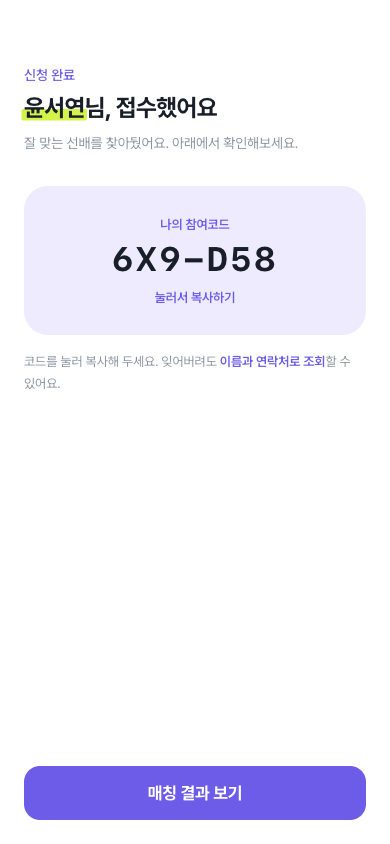
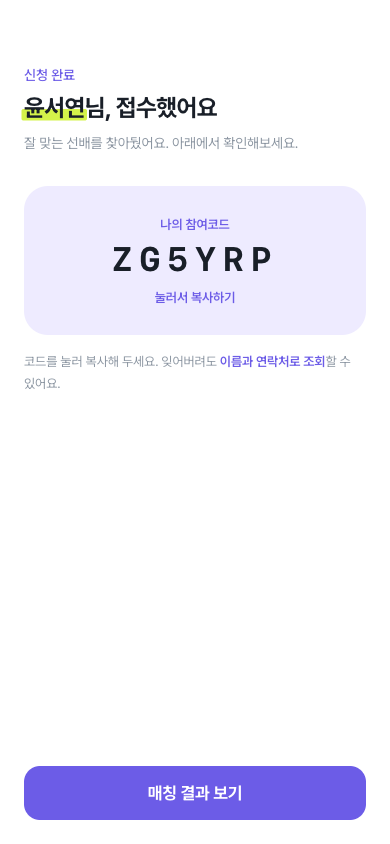
사진 스텝을 고르기/찍기로 분리하고 참여코드에서 하이픈 제거
사진
- 앨범에서 고르기 / 카메라로 찍기 두 갈래로 나눔.
  capture 속성을 켰다 껐다 하면 기기에 따라 반영이 늦어 input을 따로 둔다.
- 사진이 없을 때 성향 이모지로 대체하던 것을 이름 글자로 바꿈.
  이모지는 성향을 나타내는 기호라 사람 자리에 놓으면
  "사진을 안 올린 사람"이 아니라 "그 성향인 사람"처럼 읽힌다.
- 멘토 카드 아바타도 같은 규칙 적용

참여코드
- 표시에서 하이픈 제거 (4BT-NXF -> 4BTNXF).
  자간을 넓혀 한 글자씩 또렷하게 읽히도록 함
- 입력받을 때는 하이픈이 섞여 들어와도 정규화해 통과시키는 동작 유지
- 화면에 보이는 값과 복사되는 값이 같아짐

Changed region(s): [[0.2769, 0.2773, 0.7077, 0.3389]]

diff --git a/src/features/onboarding/components/steps/PhotoStep.tsx b/src/features/onboarding/components/steps/PhotoStep.tsx
@@ -2,8 +2,8 @@
 
 import { animate } from "animejs";
 import { useEffect, useRef, useState } from "react";
-import { PERSONAS } from "@/shared/constants/persona";
 import { DURATION, REVEAL_EASE, TAP_SPRING } from "@/shared/lib/anime";
+import { nameInitials } from "@/shared/lib/nameInitials";
 import { StepLayout } from "../StepLayout";
 import type { StepProps } from "../../model/types";
 
@@ -51,10 +51,13 @@ export function PhotoStep({ role, draft, onNext, onChange }: StepProps) {
   const [photoUrl, setPhotoUrl] = useState<string | undefined>(draft.photoUrl);
   const [error, setError] = useState<string>();
 
-  const inputRef = useRef<HTMLInputElement>(null);
+  // 앨범과 카메라는 input 을 따로 둔다.
+  // 하나에 capture 속성을 켰다 껐다 하면 기기에 따라 반영이 늦다.
+  const pickRef = useRef<HTMLInputElement>(null);
+  const captureRef = useRef<HTMLInputElement>(null);
   const previewRef = useRef<HTMLDivElement>(null);
 
-  const persona = draft.personaType ? PERSONAS[draft.personaType] : undefined;
+  const initials = nameInitials(draft.name);
 
 
   // 고르는 즉시 draft에 반영한다. 뒤로 갔다 돌아와도 선택이 남아 있어야 한다.
@@ -99,20 +102,22 @@ export function PhotoStep({ role, draft, onNext, onChange }: StepProps) {
               className="size-[140px] rounded-full object-cover"
             />
           ) : (
-            <div className="flex size-[140px] items-center justify-center rounded-full bg-gray-50 text-[52px]">
-              <span aria-hidden>{persona?.emoji ?? "🙂"}</span>
+            // 사진이 없으면 이름 글자를 보여준다. 이모지로 대체하지 않는다.
+            <div className="flex size-[140px] items-center justify-center rounded-full bg-gray-100">
+              <span className="text-[44px] font-bold text-gray-400">{initials}</span>
             </div>
           )}
         </div>
 
-        {!photoUrl && persona && (
+        {!photoUrl && (
           <p className="mt-3 text-center text-[13px] text-gray-400">
-            사진이 없으면 {persona.name} 이모지로 보여요.
+            올리지 않으면 이름만 보여요.
           </p>
         )}
 
+        {/* 앨범에서 고르기 */}
         <input
-          ref={inputRef}
+          ref={pickRef}
           type="file"
           accept={ACCEPTED}
           className="hidden"
@@ -122,28 +127,40 @@ export function PhotoStep({ role, draft, onNext, onChange }: StepProps) {
             e.target.value = "";
           }}
         />
+        {/* 바로 찍기. capture="user" 가 모바일에서 카메라를 연다. */}
+        <input
+          ref={captureRef}
+          type="file"
+          accept={ACCEPTED}
+          capture="user"
+          className="hidden"
+          onChange={(e) => {
+            void handleFile(e.target.files?.[0]);
+            e.target.value = "";
+          }}
+        />
 
-        <div className="mt-6 flex w-full flex-col gap-2">
-          <button
-            type="button"
-            onClick={(e) => {
-              inputRef.current?.click();
-              animate(e.currentTarget, {
-                scale: [0.98, 1],
-                duration: DURATION.fade,
-                ease: REVEAL_EASE,
-              });
-            }}
-            className="h-[52px] w-full rounded-2xl bg-brand-soft text-[16px] font-bold text-brand"
-          >
-            {photoUrl ? "다른 사진 고르기" : "사진 고르기"}
-          </button>
+        <div className="mt-6 w-full">
+          <div className="grid grid-cols-2 gap-2">
+            <PhotoActionButton
+              onClick={() => pickRef.current?.click()}
+              emoji="🖼"
+              label={photoUrl ? "다시 고르기" : "고르기"}
+              description="앨범에서"
+            />
+            <PhotoActionButton
+              onClick={() => captureRef.current?.click()}
+              emoji="📷"
+              label={photoUrl ? "다시 찍기" : "찍기"}
+              description="카메라로"
+            />
+          </div>
 
           {photoUrl && (
             <button
               type="button"
               onClick={() => setPhotoUrl(undefined)}
-              className="h-[52px] w-full rounded-2xl bg-gray-50 text-[16px] font-semibold text-gray-600"
+              className="mt-2 h-[48px] w-full rounded-2xl bg-gray-50 text-[15px] font-semibold text-gray-600"
             >
               사진 지우기
             </button>
@@ -153,5 +170,39 @@ export function PhotoStep({ role, draft, onNext, onChange }: StepProps) {
         {error && <p className="mt-3 text-[13px] text-red-500">{error}</p>}
       </div>
     </StepLayout>
+  );
+}
+
+/** 고르기 / 찍기 두 갈래를 같은 크기로 나란히 보여준다. */
+function PhotoActionButton({
+  onClick,
+  emoji,
+  label,
+  description,
+}: {
+  onClick: () => void;
+  emoji: string;
+  label: string;
+  description: string;
+}) {
+  return (
+    <button
+      type="button"
+      onClick={(e) => {
+        onClick();
+        animate(e.currentTarget, {
+          scale: [0.97, 1],
+          duration: DURATION.fade,
+          ease: REVEAL_EASE,
+        });
+      }}
+      className="flex flex-col items-center gap-1 rounded-2xl bg-brand-soft py-4"
+    >
+      <span className="text-[24px]" aria-hidden>
+        {emoji}
+      </span>
+      <span className="text-[16px] font-bold text-brand">{label}</span>
+      <span className="text-[12px] text-gray-500">{description}</span>
+    </button>
   );
 }

diff --git a/src/app/admin/page.tsx b/src/app/admin/page.tsx
@@ -5,7 +5,6 @@ import { DataTable, type TableColumn } from "@/features/admin/components/DataTab
 import { downloadCsv, type CsvColumn } from "@/features/admin/lib/csv";
 import { matchMentors } from "@/features/matching/lib/score";
 import type { Mentee, Mentor } from "@/features/matching/model/types";
-import { formatParticipationCode } from "@/features/onboarding/lib/participationCode";
 import { formatTimeSlotShort } from "@/shared/constants/domain";
 import { PERSONAS } from "@/shared/constants/persona";
 import { MOCK_MENTEES, MOCK_MENTORS } from "@/shared/lib/mock/generate";
@@ -32,7 +31,7 @@ interface MatchRow {
 }
 
 const menteeColumns: TableColumn<Mentee>[] = [
-  { key: "code", header: "참여코드", value: (r) => formatParticipationCode(r.participationCode), width: "110px" },
+  { key: "code", header: "참여코드", value: (r) => r.participationCode, width: "110px" },
   { key: "name", header: "이름", value: (r) => r.name, width: "80px" },
   { key: "gender", header: "성별", value: (r) => (r.gender === "MALE" ? "남" : "여"), align: "center", width: "60px" },
   { key: "campus1", header: "1지망", value: (r) => r.targetCampus[0] },
@@ -49,7 +48,7 @@ const menteeColumns: TableColumn<Mentee>[] = [
 ];
 
 const mentorColumns: TableColumn<Mentor>[] = [
-  { key: "code", header: "참여코드", value: (r) => formatParticipationCode(r.participationCode), width: "110px" },
+  { key: "code", header: "참여코드", value: (r) => r.participationCode, width: "110px" },
   { key: "name", header: "이름", value: (r) => r.name, width: "80px" },
   { key: "gender", header: "성별", value: (r) => (r.gender === "MALE" ? "남" : "여"), align: "center", width: "60px" },
   { key: "campus", header: "캠퍼스", value: (r) => r.currentCampus },
@@ -114,7 +113,7 @@ export default function AdminPage() {
         matchMentors(mentee, MOCK_MENTORS, 3).map((result, i) => ({
           id: `${mentee.id}-${result.mentor.id}`,
           rank: i + 1,
-          menteeCode: formatParticipationCode(mentee.participationCode),
+          menteeCode: mentee.participationCode,
           menteeName: mentee.name,
           menteeCampus: mentee.targetCampus[0],
           menteeArea: mentee.desiredAreas.join(", "),
@@ -202,7 +201,7 @@ export default function AdminPage() {
           rows={MOCK_MENTEES}
           columns={menteeColumns}
           rowKey={(r) => r.id}
-          searchable={(r) => `${formatParticipationCode(r.participationCode)} ${r.name} ${r.targetCampus.join(" ")} ${r.targetMajors.join(" ")} ${r.desiredAreas.join(" ")}`}
+          searchable={(r) => `${r.participationCode} ${r.name} ${r.targetCampus.join(" ")} ${r.targetMajors.join(" ")} ${r.desiredAreas.join(" ")}`}
         />
       )}
 
@@ -211,7 +210,7 @@ export default function AdminPage() {
           rows={MOCK_MENTORS}
           columns={mentorColumns}
           rowKey={(r) => r.id}
-          searchable={(r) => `${formatParticipationCode(r.participationCode)} ${r.name} ${r.currentCampus} ${r.currentMajors.join(" ")} ${r.mentoringArea.join(" ")}`}
+          searchable={(r) => `${r.participationCode} ${r.name} ${r.currentCampus} ${r.currentMajors.join(" ")} ${r.mentoringArea.join(" ")}`}
         />
       )}
 

diff --git a/src/components/ui/CodeBadge.tsx b/src/components/ui/CodeBadge.tsx
@@ -1,7 +1,6 @@
 "use client";
 
 import { useCallback, useEffect, useRef, useState } from "react";
-import { formatParticipationCode } from "@/features/onboarding/lib/participationCode";
 import { cn } from "@/shared/lib/cn";
 import { pressFeedback, Toast } from "./Toast";
 
@@ -38,9 +37,8 @@ export function CodeBadge({ code, size = "large" }: CodeBadgeProps) {
 
   const handleCopy = async (e: React.MouseEvent<HTMLButtonElement>) => {
     pressFeedback(e.currentTarget);
-    const formatted = formatParticipationCode(code);
     try {
-      await navigator.clipboard.writeText(formatted);
+      await navigator.clipboard.writeText(code);
       showToast("참여코드를 복사했어요");
     } catch {
       // 클립보드가 막힌 환경(비 HTTPS 등)에서는 화면의 코드를 보고 적으면 된다.
@@ -55,7 +53,7 @@ export function CodeBadge({ code, size = "large" }: CodeBadgeProps) {
       <button
         type="button"
         onClick={handleCopy}
-        aria-label={`참여코드 ${formatParticipationCode(code)} 복사하기`}
+        aria-label={`참여코드 ${code.split("").join(" ")} 복사하기`}
         className={cn(
           "w-full rounded-3xl bg-brand-soft transition-colors duration-150 active:bg-brand/15",
           isLarge ? "px-6 py-7" : "px-4 py-3",
@@ -64,8 +62,8 @@ export function CodeBadge({ code, size = "large" }: CodeBadgeProps) {
         {isLarge ? (
           <>
             <span className="block text-[13px] font-semibold text-brand">나의 참여코드</span>
-            <span className="mt-2 block font-mono text-[34px] leading-none font-bold tracking-[0.08em] text-gray-900">
-              {formatParticipationCode(code)}
+            <span className="mt-2 block font-mono text-[34px] leading-none font-bold tracking-[0.2em] text-gray-900">
+              {code}
             </span>
             <span className="mt-3 block text-[13px] font-semibold text-brand">
               눌러서 복사하기
@@ -75,8 +73,8 @@ export function CodeBadge({ code, size = "large" }: CodeBadgeProps) {
           <span className="flex items-center justify-between">
             <span className="text-[13px] font-semibold text-brand">참여코드</span>
             <span className="flex items-center gap-2">
-              <span className="font-mono text-[16px] font-bold tracking-[0.06em] text-gray-900">
-                {formatParticipationCode(code)}
+              <span className="font-mono text-[16px] font-bold tracking-[0.14em] text-gray-900">
+                {code}
               </span>
               <span className="text-[12px] font-semibold text-brand">복사</span>
             </span>

diff --git a/src/features/onboarding/lib/participationCode.ts b/src/features/onboarding/lib/participationCode.ts
@@ -12,9 +12,6 @@
 const ALPHABET = "23456789ABCDEFGHJKMNPQRSTUVWXYZ";
 const CODE_LENGTH = 6;
 
-/** 표시용 구분자 위치. 6자를 3-3으로 끊으면 한 번에 읽힌다. */
-const GROUP_SIZE = 3;
-
 /**
  * 암호학적 난수로 코드를 만든다.
  * Math.random을 쓰면 같은 밀리초에 제출한 두 사람이 같은 코드를 받을 수 있다.
@@ -32,13 +29,11 @@ export function generateParticipationCode(): string {
   return code;
 }
 
-/** "K7M2X9" -> "K7M-2X9" */
-export function formatParticipationCode(code: string): string {
-  if (code.length !== CODE_LENGTH) return code;
-  return `${code.slice(0, GROUP_SIZE)}-${code.slice(GROUP_SIZE)}`;
-}
-
-/** 사용자가 입력한 코드를 비교 가능한 형태로 정규화한다. */
+/**
+ * 사용자가 입력한 코드를 비교 가능한 형태로 정규화한다.
+ * 표시할 때는 구분 기호 없이 6자를 그대로 쓰지만,
+ * 붙여넣기로 하이픈이 섞여 들어와도 통과시켜야 한다.
+ */
 export function normalizeParticipationCode(input: string): string {
   return input.replace(/[^0-9A-Za-z]/g, "").toUpperCase();
 }

diff --git a/src/shared/lib/nameInitials.ts b/src/shared/lib/nameInitials.ts
@@ -1,0 +1,25 @@
+/**
+ * 사진이 없을 때 아바타 자리에 넣을 글자.
+ *
+ * 페르소나 이모지를 쓰지 않는 이유: 이모지는 성향을 나타내는 기호라
+ * 사람을 가리키는 자리에 놓으면 "사진을 안 올린 사람"이 아니라
+ * "그 성향인 사람"처럼 읽힌다. 이름 글자가 훨씬 정확하다.
+ *
+ * 한국 이름은 성 한 글자 + 이름 두 글자가 대부분이라 뒤 두 글자를 쓴다.
+ * "윤서연" -> "서연" (성만 남기면 동명이인이 다 같아 보인다)
+ */
+export function nameInitials(name: string | undefined): string {
+  const trimmed = name?.trim() ?? "";
+  if (!trimmed) return "?";
+
+  // 영문 이름은 각 단어의 첫 글자를 딴다. "Emma Carter" -> "EC"
+  if (/^[A-Za-z\s]+$/.test(trimmed)) {
+    return trimmed
+      .split(/\s+/)
+      .slice(0, 2)
+      .map((word) => word[0]?.toUpperCase() ?? "")
+      .join("");
+  }
+
+  return trimmed.length <= 2 ? trimmed : trimmed.slice(-2);
+}

diff --git a/src/features/matching/components/MentorCard.tsx b/src/features/matching/components/MentorCard.tsx
@@ -4,6 +4,7 @@ import { Name } from "@/components/ui/Name";
 import { formatTimeSlotShort } from "@/shared/constants/domain";
 import { PERSONAS } from "@/shared/constants/persona";
 import { cn } from "@/shared/lib/cn";
+import { nameInitials } from "@/shared/lib/nameInitials";
 import type { MatchResult } from "../model/types";
 
 interface MentorCardProps {
@@ -49,7 +50,11 @@ export function MentorCard({ result, onMatch }: MentorCardProps) {
                 className="size-full object-cover"
               />
             ) : (
-              <span aria-hidden>{persona.emoji}</span>
+              // 사진이 없으면 이름 글자로 채운다.
+              // 페르소나 이모지를 쓰면 "사진 없는 사람"이 아니라 "그 성향인 사람"처럼 읽힌다.
+              <span className="text-[26px] font-bold text-gray-400">
+                {nameInitials(mentor.name)}
+              </span>
             )}
           </div>
         </div>

diff --git a/README.md b/README.md
@@ -72,7 +72,7 @@ npm run dev        # http://localhost:3000
 | 5 | ![](screenshots/01-멘티-고3학생/05-희망학과와진로.png) | **희망 학과·진로** — 각각 최대 3개. `0/3` 카운터로 남은 개수를 표시합니다 |
 | 6 | ![](screenshots/01-멘티-고3학생/06-프로필-이름연락처.png) | **프로필** — 이름·성별·연락처는 필수, 고등학교·추천인은 선택 |
 | 7 | ![](screenshots/01-멘티-고3학생/07-가능시간대-밤은온라인.png) | **가능 시간대** — 평일/주말 × 5구간. **밤(21-24시)은 온라인** 뱃지로 표시 |
-| 8 | ![](screenshots/01-멘티-고3학생/08-프로필사진-건너뛰기가능.png) | **프로필 사진** — 선택. 없으면 성향 이모지로 대체됩니다 |
+| 8 | ![](screenshots/01-멘티-고3학생/08-프로필사진-고르기또는찍기.png) | **프로필 사진** — 앨범에서 **고르기** 또는 카메라로 **찍기**. 선택 사항이며, 올리지 않으면 이름 글자만 보입니다 |
 | 9 | ![](screenshots/01-멘티-고3학생/09-신청완료-참여코드발급.png) | **신청 완료** — 참여코드 발급. 코드를 누르면 복사됩니다 |
 | 10 | ![](screenshots/01-멘티-고3학생/10-매칭결과-멘토카드3장.png) | **매칭 결과** — 적합도 순 상위 3명의 프로필 카드 |
 
@@ -112,10 +112,11 @@ npm run dev        # http://localhost:3000
 
 ### 참여코드 규칙
 
-- **6자리**, `4BT-NXF`처럼 3-3으로 끊어 표시
+- **6자리**, `ZG5YRP`처럼 구분 기호 없이 표시 (자간을 넓혀 한 글자씩 또렷하게)
 - **혼동되는 글자를 뺐습니다** — `0/O`, `1/I/L` 제외. 전화로 불러주거나 손으로 적는 상황을 전제
 - `crypto.getRandomValues` 사용 — 같은 순간에 제출한 두 사람이 같은 코드를 받지 않도록
 - 코드를 누르면 클립보드에 복사되고 "메모장이나 메시지에 붙여넣어 두세요" 안내가 뜹니다
+- 입력받을 때는 하이픈이 섞여 들어와도 정규화해 통과시킵니다
 
 ### 조회는 왜 이름 + 번호인가
 
@@ -235,6 +236,8 @@ src/
 - **스텝마다 `key`를 부여** — 없으면 React가 DOM과 상태를 재사용해 이전 스텝의 스크롤
   위치가 남고, 같은 컴포넌트를 쓰는 스텝끼리 선택값이 샙니다
 - **고르는 즉시 draft에 반영** — 뒤로 갔다 돌아와도 선택이 남아 있어야 합니다
+- **사진이 없으면 이름 글자를 보여줍니다** — 성향 이모지를 쓰면 "사진을 안 올린 사람"이
+  아니라 "그 성향인 사람"처럼 읽혀서, 사람을 가리키는 자리에는 이름이 맞습니다
 
 ---
 
